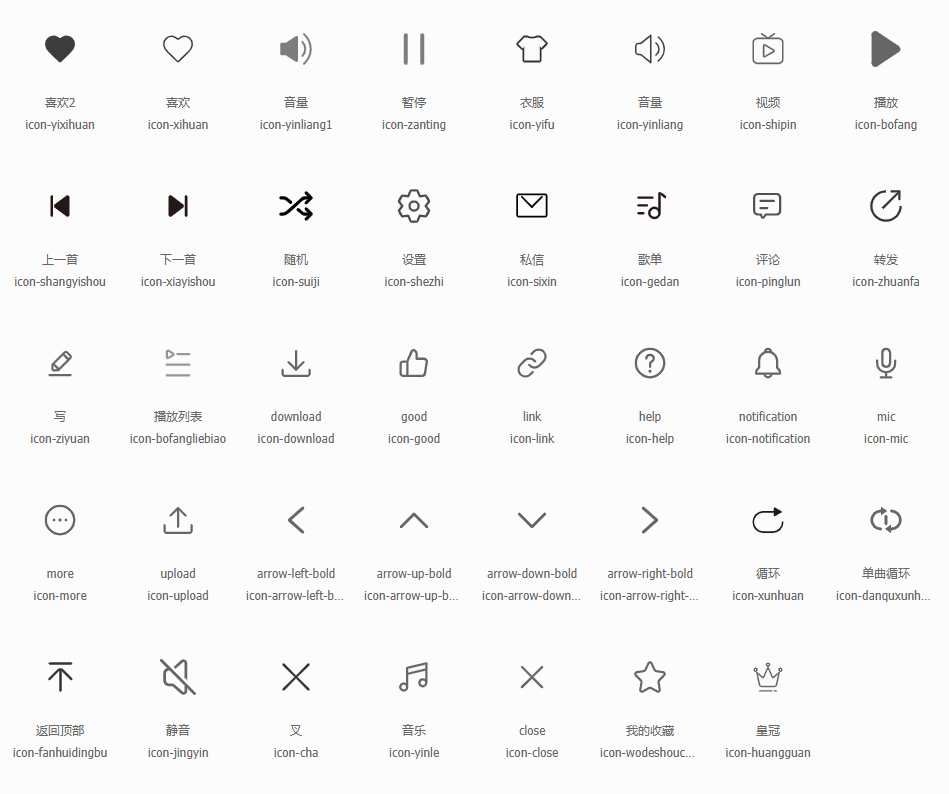
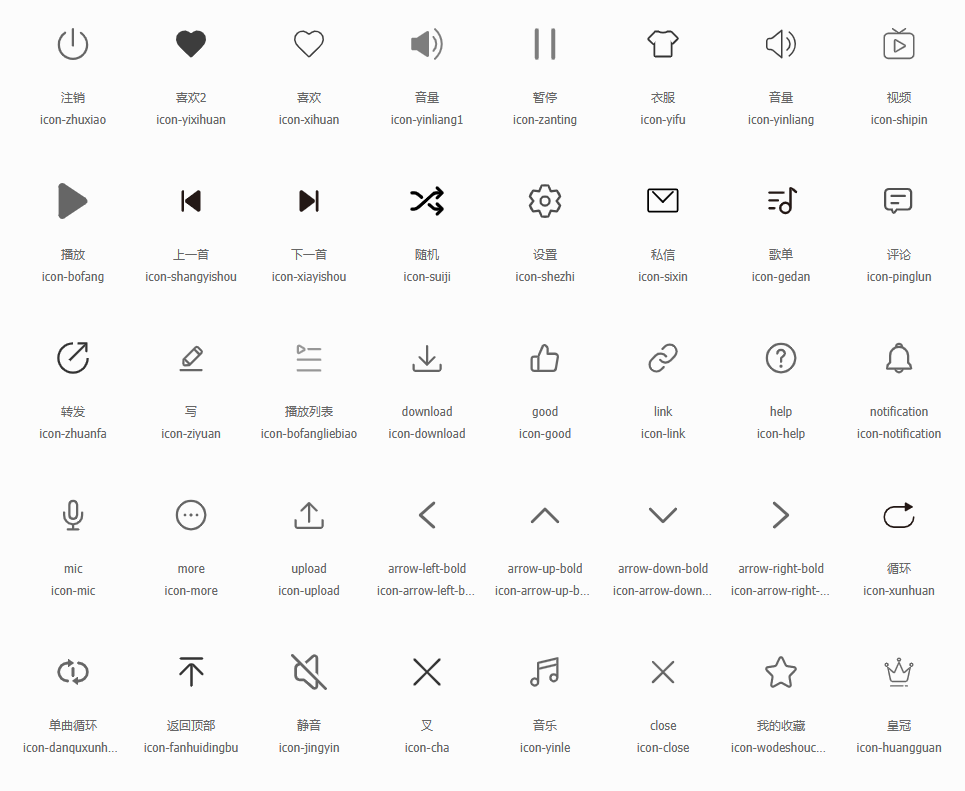
fix: 修复由登录和退出登录引发的各种问题

diff --git a/src/views/personal/PersonalView.vue b/src/views/personal/PersonalView.vue
@@ -1,0 +1,109 @@
+<template>
+    <div class="Personal">
+        <!-- 用户信息 -->
+        <div class="userInfo" v-if="userInfo.avatarUrl">
+            <div class="left">
+                <img :src="userInfo.avatarUrl + '?param=400y400'" alt="" class="avatar" />
+            </div>
+            <div class="right">
+                <div class="rightTop">
+                    <div class="username">
+                        <div>{{ userInfo.nickname }}</div>
+                        <div class="logout" @click="logout" v-if="isCurrentUser && this.$store.state.isLogin">
+                            <i class="iconfont icon-zhuxiao"></i>
+                            <span>退出登录</span>
+                        </div>
+                    </div>
+                </div>
+            </div>
+        </div>
+    </div>
+</template>
+
+<script>
+export default {
+    name: "PersonalView",
+    data() {
+        return {
+            // 用户信息
+            userInfo: {},
+            // 创建的歌单
+            createdMusicList: [],
+            // 收藏的歌单
+            collectedMusicList: [],
+            // 该用户是否当前登录用户
+            isCurrentUser: false,
+        }
+    },
+    methods: {
+        // 请求
+        // 获取用户信息
+        async getUserInfo() {
+            let res = await this.$request("/user/detail", {
+                uid: this.$route.params.uid,
+            });
+            if (!res) {
+                this.$message.error("获取用户信息失败!");
+                return;
+            }
+            // console.log("用户信息: ", res);
+            res.data.profile['level'] = res.data.level;
+            this.userInfo = res.data.profile;
+            console.log("用户信息: ", this.userInfo);
+        },
+
+        // 点击退出登录的回调
+        async logout() {
+            let timestamp = Date.parse(new Date());
+            let res = await this.$request('/logout', { timestamp });
+            console.log("尝试退出登录: ", res);
+            if (res.data.code != 200) {
+                this.$message('退出登录失败, 请稍后重试!');
+                return;
+            }
+            // 删除localstoarge的userId
+            window.localStorage.removeItem('userId');
+            // 在vuex中更新登录状态、清除缓存
+            this.$store.commit('updateLoginState', false);
+            this.$store.commit('updateCreatedMusicList', []);
+            this.$store.commit('updateCollectMusicList', []);
+            this.$store.commit('updateLikeMusicList', []);
+            this.$message.success('退出成功!');
+            this.isCurrentUser = false;
+        },
+    },
+    async created() {
+        await this.getUserInfo();
+        // 判断该用户是不是当前登录用户
+        if (window.localStorage.getItem('userId')) {
+            this.isCurrentUser = window.localStorage.getItem('userId') == this.$route.params.uid;
+        }
+    },
+    watch: {
+        '$store.state.isLogin'(current) {
+            if (window.localStorage.getItem('userId') && current) {
+                this.isCurrentUser = window.localStorage.getItem('userId') == this.$route.params.uid;
+            }
+        },
+    },
+}
+</script>
+
+<style scoped>
+.Personal {
+    height: calc(100vh - 145px);
+    overflow-y: scroll;
+}
+
+.userInfo {
+    margin: 40px 20px;
+    display: flex;
+}
+
+.avatar {
+    height: 200px;
+    width: 200px;
+    object-fit: cover;
+    border-radius: 50%;
+}
+</style>

diff --git a/src/views/musicListDetail/MusicListDetail.vue b/src/views/musicListDetail/MusicListDetail.vue
@@ -78,7 +78,7 @@
                               stripe
                               lazy
                               :row-key="(row) => { return row.id; }"
-                              v-infinite-scroll="this.$store.state.isLogin ? loadMore : ''"
+                              v-infinite-scroll="loadMore"
                               :infinite-scroll-disabled="scrollLoadDisabled"
                               :infinite-scroll-distance="1500"
                               :infinite-scroll-immediate="false"
@@ -107,7 +107,7 @@
                         <el-table-column prop="dt" label="时长" min-width="50"></el-table-column>
                     </el-table>
                     <div class="loadMore" v-if="isMore && !this.$store.state.isLogin">
-                        登陆后查看更多音乐
+                        登录后查看更多音乐
                     </div>
                     <div class="placeholder" v-else></div>
                 </el-tab-pane>
@@ -335,7 +335,7 @@ export default {
         async likeMusic(musicId) {
             // 判断是否登录
             if (!this.$store.state.isLogin) {
-                this.$message.warning("只有登陆后才能点赞哦!");
+                this.$message.warning("只有登录后才能点赞哦!");
                 return;
             }
             // console.log(musicId);
@@ -392,8 +392,10 @@ export default {
             if (
                 serve != "/m7" &&
                 serve != "/m701" &&
+                serve != "/m702" &&
                 serve != "/m8" &&
-                serve != "/m801"
+                serve != "/m801" &&
+                serve != "/m802"
             ) {
                 // 没有对应的代理
                 this.$message.error("匹配不到对应的代理,下载失败!");
@@ -526,7 +528,7 @@ export default {
         // 触底加载所有音乐的回调
         loadMore() {
             if (!this.$store.state.isLogin) {
-                this.$message.error("请先进行登录操作!");
+                // this.$message.error("请先进行登录操作!");
                 return;
             }
             // console.log("加载所有音乐");
@@ -667,7 +669,9 @@ export default {
         this.$nextTick(() => {
             // 判断是否和正在播放的歌单相同
             if (this.$route.params.id == this.$store.state.musicListId) {
-                this.handleDOM(this.$store.state.musicId);
+                setTimeout(() => {
+                    this.handleDOM(this.$store.state.musicId);
+                }, 50); // 延迟执行，等待里面的数据渲染了再处理DOM，可以根据实际情况调整延迟时间
             }
         });
     },

diff --git a/src/components/headerBar/HeaderBar.vue b/src/components/headerBar/HeaderBar.vue
@@ -51,7 +51,7 @@
                         <Login v-if="isAccountPopShow" 
                                @getUserInfo="(info) => {userInfo = info; isAccountPopShow = false;}"/>
                     </el-popover>
-                    <img :src="userInfo.avatarUrl" alt="" v-else />
+                    <img :src="userInfo.avatarUrl" alt="" v-else @click="goToPersonal" />
                 </div>
                 <div class="userName" v-if="userInfo.avatarUrl">{{ userInfo.nickname }}</div>
                 <div class="userName" v-else>点击头像登录</div>
@@ -105,6 +105,16 @@ export default {
                     window.localStorage.removeItem('userId');
                 }
             }
+        },
+
+        // 跳转到个人主页
+        goToPersonal() {
+            if (this.$route.path != `/personal/${this.userInfo.userId}`) {
+                this.$router.push({
+                    name: 'personal',
+                    params: { uid: this.userInfo.userId },
+                })
+            }
         }
     },
     async created() {
@@ -120,10 +130,10 @@ export default {
     },
     watch: {
         '$store.state.isLogin'(current) {
-        // 如果退出登录后数据还没清空，则清空数据
-        if (!current && this.userInfo.nickname) {
-            this.userInfo = {};
-        }
+            // 如果退出登录后数据还没清空，则清空数据
+            if (!current && this.userInfo.nickname) {
+                this.userInfo = {};
+            }
         },
     },
 }

diff --git a/src/components/login/qrCodeLogin/QrCode.vue b/src/components/login/qrCodeLogin/QrCode.vue
@@ -1,6 +1,6 @@
 <template>
     <div class="img-container">
-        <img :src="qrCodeImg">
+        <img :src="qrCodeImg"  @click="refreshQrCode()" />
     </div>
 </template>
 
@@ -46,13 +46,15 @@ export default {
 
                 const res = await checkQrCode({ key: this.key, timestamp: getTimeStamp() });
                 if (res.data.code === 800) {
-                // 二维码过期
-                this.clearChecker();
-                this.init();
+                    // 二维码过期
+                    console.log("二维码过期");
+                    this.clearChecker();
+                    this.init();
                 } else if (res.data.code === 803) {
-                // 授权成功
-                this.clearChecker();
-                this.getAccountInfo();
+                    // 授权成功
+                    console.log("授权成功");
+                    this.clearChecker();
+                    this.getAccountInfo();
                 }
             }, 2000);
         },
@@ -72,6 +74,12 @@ export default {
             clearInterval(this.timer);
             this.timer = null;
         },
+
+        // 点击刷新二维码
+        refreshQrCode() {
+            this.clearChecker();
+            this.init();
+        }
     },
     beforeUnmount() {
         this.clearChecker();
@@ -85,6 +93,7 @@ export default {
 
   img {
     height: 120px;
+    cursor: pointer;
   }
 }
 </style>

diff --git a/src/components/comment/CommentCompn.vue b/src/components/comment/CommentCompn.vue
@@ -119,7 +119,7 @@ export default {
         async submitComment() {
             // 判断是否登录
             if (!this.$store.state.isLogin) {
-                this.$message.warning("只有登陆后才能评论哦!");
+                this.$message.warning("只有登录后才能评论哦!");
                 return;
             }
             // 先判断评论内容是否为空
@@ -177,7 +177,7 @@ export default {
             // console.log("提交回复评论");
             // 判断是否登录
             if (!this.$store.state.isLogin) {
-                this.$message.warning("只有登陆后才能评论哦!");
+                this.$message.warning("只有登录后才能评论哦!");
                 return;
             }
             if (this.commentInput.length == this.floorCommentInputLength) {
@@ -267,7 +267,7 @@ export default {
             console.log(flag, cid);
             // 判断是否登录
             if (!this.$store.state.isLogin) {
-                this.$message.warning("只有登陆后才能点赞哦!");
+                this.$message.warning("只有登录后才能点赞哦!");
                 return;
             }
             // 获取时间戳

diff --git a/src/views/IndexVue.vue b/src/views/IndexVue.vue
@@ -162,7 +162,7 @@ export default {
         },
         // 监听当前下载音乐信息
         "$store.state.downloadMusicInfo"(current) {
-            console.log(current.url);
+            // console.log(current.url);
             axios.get(current.url, { responseType: "blob" })
             .then((res) => {
                 let blob = res.data;
@@ -180,7 +180,7 @@ export default {
             .catch((err) => {
                 console.log(err);
                 if (err.request.statusText == "Forbidden") {
-                    this.$message.error("您不是黑胶会员，下载失败!");
+                    this.$message.error("该歌曲暂无版权，无法下载!");
                 } else {
                     this.$message.error("下载失败，请稍后尝试");
                 }

diff --git a/src/router/index.js b/src/router/index.js
@@ -7,6 +7,7 @@ const Ranking = () => import('views/discover/discoverChildren/RankingView.vue')
 const Singer = () => import('views/discover/discoverChildren/SingerView.vue')
 const MusicListIndex = () => import('views/discover/discoverChildren/musicListChildren/MusicListIndex.vue')
 const MusicListDetail = () => import('views/musicListDetail/MusicListDetail.vue')
+const Personal = () => import('views/personal/PersonalView.vue')
 
 const routes = [
     {path: '/', redirect: '/index'},
@@ -34,6 +35,7 @@ const routes = [
                 ]
             },
             { path: '/musiclistdetail/:id', name: 'musicListDetail', component: MusicListDetail },
+            { path: '/personal/:uid', name: 'personal', component: Personal },
         ]
     }
 ]

diff --git a/vue.config.js b/vue.config.js
@@ -44,6 +44,14 @@ module.exports = defineConfig({
           '^/m701': ''
         }
       },
+      '/m702': {
+        target: 'http://m702.music.126.net',
+        changeOrigin: true,
+        ws: true,
+        pathRewrite: {
+          '^/m702': ''
+        }
+      },
       '/m8': {
         target: 'http://m8.music.126.net',
         changeOrigin: true,
@@ -58,6 +66,14 @@ module.exports = defineConfig({
         ws: true,
         pathRewrite: {
           '^/m801': ''
+        }
+      },
+      '/m802': {
+        target: 'http://m802.music.126.net',
+        changeOrigin: true,
+        ws: true,
+        pathRewrite: {
+          '^/m802': ''
         }
       }
     },

diff --git a/src/components/BottomControl/BottomControl.vue b/src/components/BottomControl/BottomControl.vue
@@ -172,7 +172,7 @@ export default {
         async likeMusic() {
             // 判断是否登录
             if (!this.$store.state.isLogin) {
-                this.$message.warning("只有登陆后才能喜欢哦!");
+                this.$message.warning("只有登录后才能喜欢哦!");
                 return;
             }
             // 判断是否已经喜欢该音乐，flag为true就表示还没喜欢，false表示已经喜欢了

diff --git a/src/components/login/servers.js b/src/components/login/servers.js
@@ -2,8 +2,8 @@ import { request } from "@/network/request";
 
 // 二维码登录流程：生成key => 根据key生成二维码 => 轮询获取二维码接口状态
 // 二维码生成key
-export function getQrCodeKey() {
-    return request('/login/qr/key');
+export function getQrCodeKey(query) {
+    return request('/login/qr/key', query);
 }
 
 // 生成二维码

diff --git a/src/assets/css/base.css b/src/assets/css/base.css
@@ -2,7 +2,7 @@
 @import url('./global.css');
 @import url('./normalize.css');
 @import url('../font/font.css');
-@import 'https://at.alicdn.com/t/c/font_4061709_xac8fprhkre.css';
+@import 'https://at.alicdn.com/t/c/font_4061709_7aelsm65q0k.css';
 
 *::-webkit-scrollbar {
   width: 8px;
